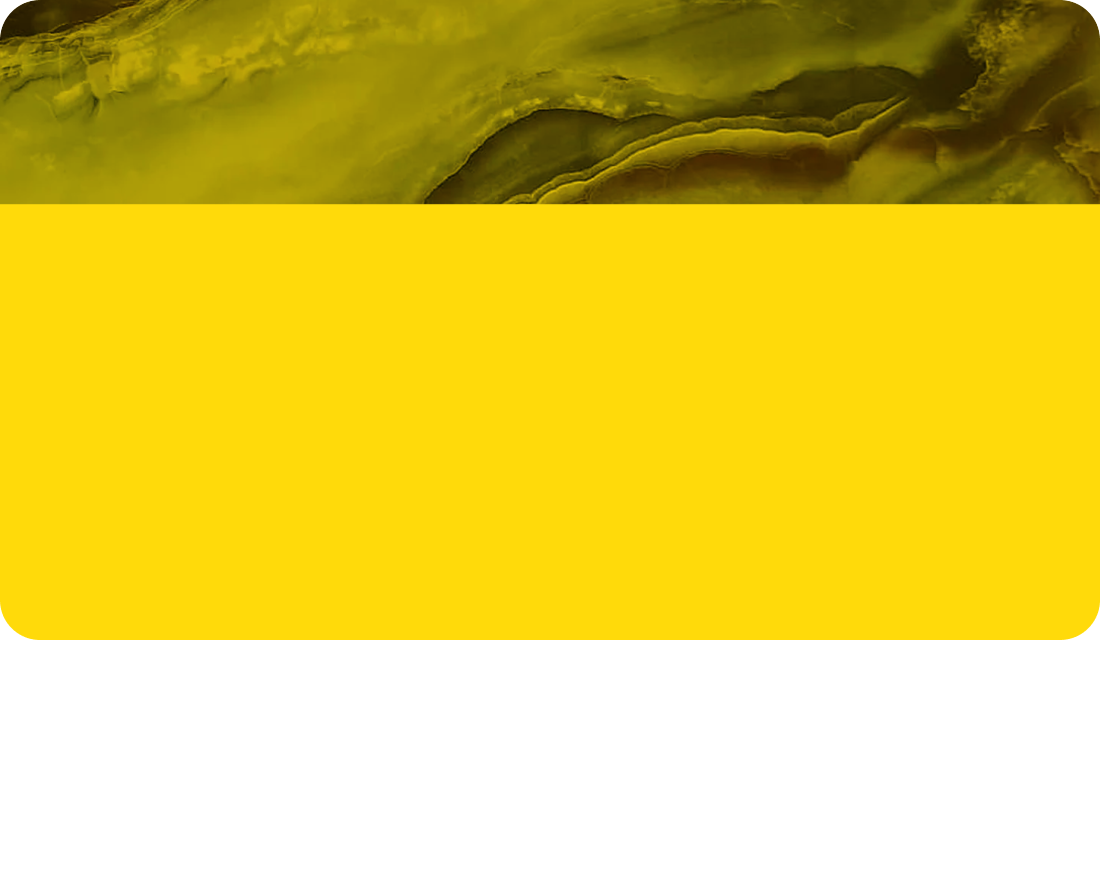
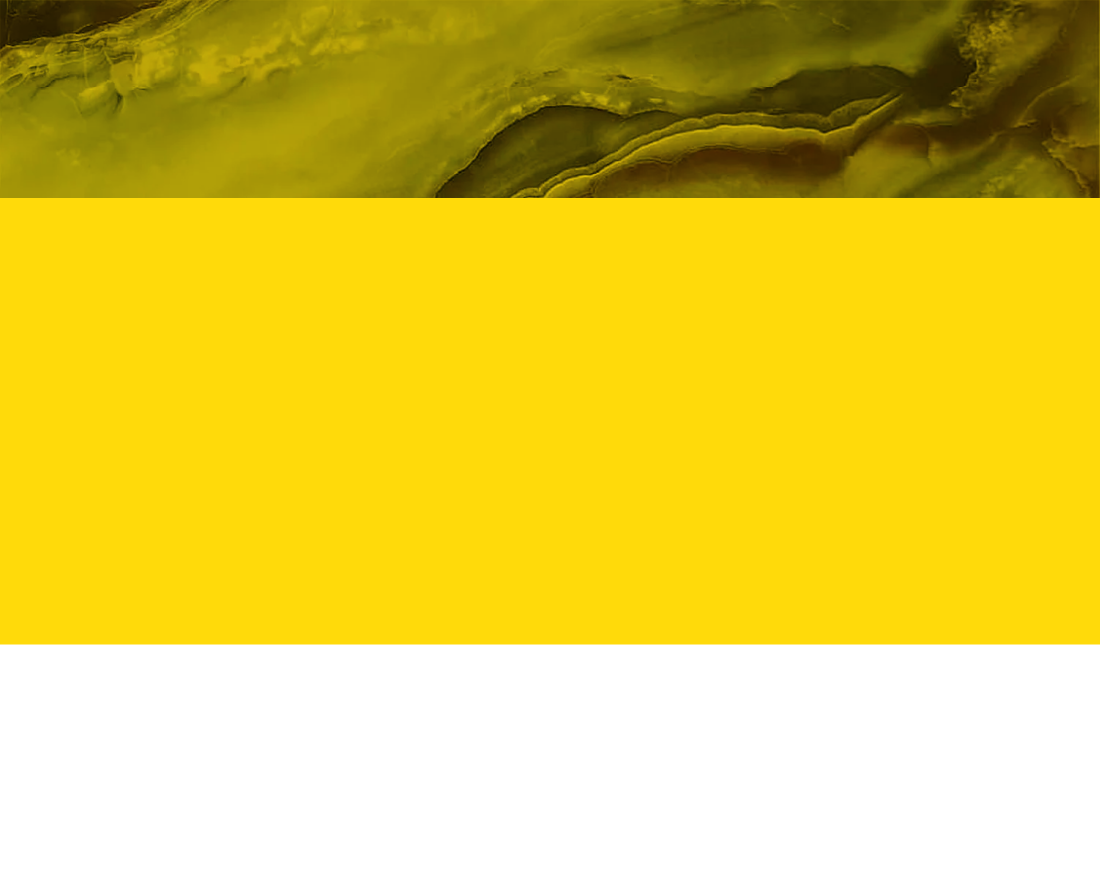
daily save

Changed region(s): [[0.0, 0.0, 1.0, 0.2483], [0.0, 0.6828, 1.0, 0.7448], [0.0, 0.0, 0.3091, 0.1241]]

diff --git a/video_splash.cpp b/video_splash.cpp
@@ -11,7 +11,7 @@
 #include <QVideoWidget>
 
 namespace {
-constexpr int SCR_WIDTH_PART(4);
+constexpr int SCR_WIDTH_PART(3);
 constexpr int MOVIE_TOP_OFFSET(28);
 } // namespace
 //=================================================================================================
@@ -65,11 +65,11 @@ SplashWidget::ContentWidget::ContentWidget(const QString &moviePath,
     _player->setSource(QUrl(moviePath));
 
     auto logoLbl = new QLabel(this);
-    logoLbl->setAttribute(Qt::WA_TranslucentBackground);
+    //logoLbl->setAttribute(Qt::WA_TranslucentBackground);
     lt->addWidget(logoLbl, row, col++);
 
     _textLbl = new QLabel("*******************************GERS Group********************", this);
-    _textLbl->setAttribute(Qt::WA_TranslucentBackground);
+    //_textLbl->setAttribute(Qt::WA_TranslucentBackground);
     lt->addWidget(_textLbl, row, col);
 
     // Way to setup font
@@ -102,7 +102,7 @@ SplashWidget::SplashWidget(const QString &moviePath,
     qreal scaleFactor(1.);
     if (nullptr != screen) {
         scaleFactor = 1. / screen->devicePixelRatio();
-        const auto resolution(screen->size());
+        const auto resolution(screen->size() * screen->devicePixelRatio());
         Q_ASSERT_X(resolution.width() >= tmpPix.size().width()
                        && resolution.height() >= tmpPix.size().height(),
                    "Display resolution fuckup!",
@@ -126,8 +126,8 @@ SplashWidget::SplashWidget(const QString &moviePath,
     pal.setBrush(QPalette::Window, QBrush{_contentWdg->_bkPix});
     _contentWdg->setPalette(pal);
 
-    // Make bottom-level widget transparent
-    setMask(_contentWdg->_bkPix.createHeuristicMask());
+    // The way to make bottom-level widget transparent(i.e. for complex shape background)
+    setMask(_contentWdg->_bkPix.mask());
 
     auto lt = new QVBoxLayout(this);
     lt->setContentsMargins(0, 0, 0, 0);
